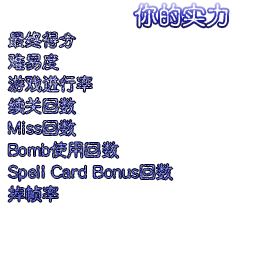
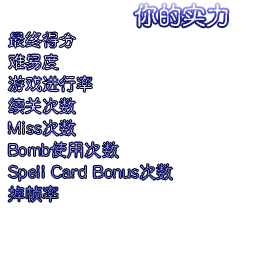
补丁更新：2024-11-17 ===> 04:16(UTC)

diff --git a/thCNPMirror/lang_zh-hans/files.js b/thCNPMirror/lang_zh-hans/files.js
@@ -81,14 +81,14 @@
 	"th07/data/result/music00.png": 1365260381,
 	"th07/data/result/result00.png": 4085513906,
 	"th07/data/result/result02.png": 3658902330,
-	"th07/data/result/result03.png": 2240403009,
+	"th07/data/result/result03.png": 2399302890,
 	"th07/data/stgenm/stg6enm2.png": 1047748664,
 	"th07/data/text/std1txt.png": 4290756279,
 	"th07/data/text/std2txt.png": 3506648881,
 	"th07/data/text/std3txt.png": 1952689573,
 	"th07/data/text/std4txt.png": 2955579345,
 	"th07/data/text/std5txt.png": 3649165582,
-	"th07/data/text/std6txt.png": 1615822218,
+	"th07/data/text/std6txt.png": 978072041,
 	"th07/data/text/std7txt.png": 2732010755,
 	"th07/data/text/std8txt.png": 4097922623,
 	"th07/data/title/replay00.png": 1730915428,
@@ -620,7 +620,7 @@
 	"th08/data/result/music00.png": 3065763301,
 	"th08/data/result/result00.png": 3593393502,
 	"th08/data/result/result02.png": 1941922785,
-	"th08/data/result/result03.png": 3111198410,
+	"th08/data/result/result03.png": 1695580011,
 	"th08/data/text/stg1txt.png": 4285091435,
 	"th08/data/text/stg2txt.png": 3566277744,
 	"th08/data/text/stg3txt.png": 1332834215,
